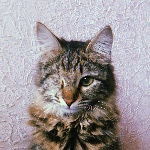
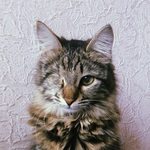
Add WebP image & renew JPEG one

diff --git a/index.html b/index.html
@@ -40,7 +40,11 @@
       <main class="page__content about">
         <h1 class="visually-hidden">О нас самих</h1>
         <section class="about-me">
-          <img class="about-me__img" src="img/kosja.jpg" width="150" height="150" alt="Кошбка">
+          <picture class="about-me__img">
+            <source type="image/webp" srcset="img/kosja.webp">
+            <source type="image/jpeg" srcset="img/kosja.jpg">
+            <img src="img/kosja.jpg" width="150" height="150" alt="Кошбка">
+          </picture>
           <h2 class="about-me__title">Пр-р-ривет!</h2>
           <p class="about-me__description">Меня зовут Кося, я живу с воннаби-верстальщиком, который, не справившись с изучением питона, отчаялся стать тестировщиком, но вовремя свернул во фронтенд.</p>
         </section>

diff --git a/css/style.css b/css/style.css
@@ -123,7 +123,7 @@ textarea {
   gap: 0 1.25em;
 }
 
-.about-me__img {
+.about-me__img img {
   border-radius: 50%;
 }
 
